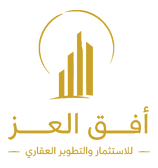
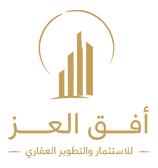
New MAALEM logotype, and the brand gold moves to #c49f58 everywhere

diff --git a/index.html b/index.html
@@ -91,9 +91,9 @@
   --ink-2:#161618;
   --ink-3:#111113;
   --ink-4:#0C0C0E;
-  --gold:#C9A227;
-  --gold-lo:rgba(201,162,39,.14);
-  --gold-md:rgba(201,162,39,.34);
+  --gold:#c49f58;
+  --gold-lo:rgba(196,159,88,.14);
+  --gold-md:rgba(196,159,88,.34);
   --white:#fff;
   --w-90:rgba(255,255,255,.90);
   --w-64:rgba(255,255,255,.64);
@@ -595,7 +595,7 @@ ul{list-style:none}
 }
 /* Les logos clients arrivent en marine, brun, doré et blanc. Les poser tels
    quels sur l'anthracite ferait disparaître les foncés et six palettes au lieu
-   d'une. Ils sont donc tous ramenés au doré de la marque — #C9A227 — CUIT DANS
+   d'une. Ils sont donc tous ramenés au doré de la marque — #c49f58 — CUIT DANS
    LES FICHIERS, pas posé par un filtre : aucune chaîne de filtres CSS n'atteint
    un hexadécimal précis, elles l'approchent. L'alpha d'origine est conservé,
    c'est lui qui porte l'anticrénelage.
@@ -645,7 +645,7 @@ ul{list-style:none}
 .plane__veil{
   position:absolute;inset:0;
   background:
-    radial-gradient(58% 44% at 34% 30%,rgba(201,162,39,.09),transparent 62%),
+    radial-gradient(58% 44% at 34% 30%,rgba(196,159,88,.09),transparent 62%),
     radial-gradient(110% 78% at 50% 48%,transparent 34%,rgba(12,12,14,.86) 100%);
 }
 /* grain fin : casse l'aplat des surfaces vectorielles */
@@ -669,7 +669,7 @@ ul{list-style:none}
   position:absolute;inset:0;z-index:4;pointer-events:none;opacity:0;
   transition:opacity 1.1s var(--ease);
   background:
-    radial-gradient(60% 45% at 32% 28%,rgba(201,162,39,.10),transparent 62%),
+    radial-gradient(60% 45% at 32% 28%,rgba(196,159,88,.10),transparent 62%),
     radial-gradient(120% 82% at 50% 50%,transparent 40%,rgba(12,12,14,.72) 100%);
 }
 #gl.is-ready ~ .gl__tint{opacity:1}
@@ -705,11 +705,11 @@ ul{list-style:none}
 .city{
   position:relative;display:grid;place-items:center;cursor:pointer;
   width:var(--d,64px);height:var(--d,64px);border-radius:50%;
-  background:rgba(201,162,39,.22);border:1px solid rgba(201,162,39,.55);
+  background:rgba(196,159,88,.22);border:1px solid rgba(196,159,88,.55);
   backdrop-filter:blur(6px);-webkit-backdrop-filter:blur(6px);
   transition:transform .45s var(--ease),background .45s var(--ease);
 }
-.city:hover{transform:scale(1.09);background:rgba(201,162,39,.34)}
+.city:hover{transform:scale(1.09);background:rgba(196,159,88,.34)}
 .city b{font-size:.68rem;font-weight:700;color:#fff;font-variant-numeric:tabular-nums;letter-spacing:.06em}
 .city span{position:absolute;top:calc(100% + 7px);white-space:nowrap;
   font-size:.55rem;font-weight:700;letter-spacing:.16em;text-transform:uppercase;color:var(--w-64)}
@@ -732,7 +732,7 @@ ul{list-style:none}
 }
 .pin__hit::before{
   content:'';position:absolute;left:50%;top:50%;width:46px;height:32px;
-  margin:-16px 0 0 -23px;border:1px dashed rgba(201,162,39,.42);border-radius:2px;
+  margin:-16px 0 0 -23px;border:1px dashed rgba(196,159,88,.42);border-radius:2px;
   transform:rotate(-9deg) scale(.6);opacity:0;
   transition:transform .8s var(--ease),opacity .8s var(--ease);
 }
@@ -1019,7 +1019,7 @@ body.is-map-open .gl__back{opacity:0;pointer-events:none}
   transition:border-color .5s var(--ease),transform .5s var(--ease);
 }
 .plan:hover{border-color:var(--w-24);transform:translateY(-3px)}
-.plan--hi{border-color:var(--gold-md);background:linear-gradient(180deg,rgba(201,162,39,.07),transparent 60%),var(--ink-2)}
+.plan--hi{border-color:var(--gold-md);background:linear-gradient(180deg,rgba(196,159,88,.07),transparent 60%),var(--ink-2)}
 .plan__tag{position:absolute;top:-1px;right:20px;padding:5px 11px;border-radius:0 0 8px 8px;background:var(--gold);color:var(--ink);font-size:.52rem;font-weight:700;letter-spacing:.14em;text-transform:uppercase}
 .plan__n{font-size:.6rem;font-weight:700;letter-spacing:.18em;text-transform:uppercase;color:var(--gold)}
 .plan__p{display:flex;align-items:baseline;gap:6px;margin-top:14px}
@@ -1039,7 +1039,7 @@ body.is-map-open .gl__back{opacity:0;pointer-events:none}
 .wa-card{
   padding:26px 22px;border-radius:18px;
   border:1px solid var(--gold-md);
-  background:linear-gradient(180deg,rgba(201,162,39,.09),transparent 70%),var(--ink-2);
+  background:linear-gradient(180deg,rgba(196,159,88,.09),transparent 70%),var(--ink-2);
 }
 .wa-card h3{font-size:clamp(1.3rem,5vw,1.8rem);font-weight:400;letter-spacing:-.025em;margin-top:12px}
 .wa-card p{margin-top:10px;font-size:.9rem;line-height:1.55;color:var(--w-64)}
@@ -1167,26 +1167,21 @@ html{scroll-behavior:smooth}
     <path d="m70.27,124.82c-2.33-2.91-4.55-5.7-7.01-8.78,2.21-2.93,4.41-5.85,6.85-9.08,2.48,3.17,4.72,6.05,7.13,9.13-2.29,2.87-4.56,5.71-6.97,8.72Z"/>
   </symbol>
 
-  <!-- Logotype seul : معالم au-dessus, MAALEM en dessous.
-       Les tracés sont ramenés à l'origine : un viewBox décalé sur le <symbol>
-       déplace le viewport du <use> et le contenu sort du cadre. -->
-  <symbol id="wm" viewBox="0 0 211 64"><g transform="translate(-172.4,-56.8)">
-    <path d="m195.8,81.58c.58.58,1.42.98,2.35.98v4.83c-2.26,0-4.3-.89-5.81-2.39-.13-.13-.31-.31-.44-.49-1.82,1.82-4.25,2.88-7,2.88-1.33,0-2.61-.22-3.81-.75-.71-.27-1.37-.66-2.04-1.11-.8.66-1.73,1.2-2.79,1.51v8.82h-4.87v-13.3h2.44c.93,0,1.77-.4,2.35-.98.62-.58.98-1.37.98-2.26v-8.46l7.27-3.32h.49c2.75,0,5.23,1.11,7,2.92,1.82,1.82,2.92,4.3,2.92,7v1.77c0,.89.35,1.73.97,2.35Zm-10.41-9.13l-3.37,1.51v7.71c.31.18.62.35.93.49.58.27,1.24.4,1.95.4,1.37,0,2.66-.58,3.59-1.51.89-.89,1.46-2.17,1.46-3.59s-.58-2.66-1.46-3.55c-.84-.84-1.91-1.37-3.1-1.46Z"/>
-    <path d="m198.11,87.38v-4.83h4.7v4.83h-4.7Z"/><path d="m202.76,87.38v-4.83h4.7v4.83h-4.7Z"/>
-    <path d="m207.41,87.38v-4.83h4.7v4.83h-4.7Z"/><path d="m212.07,87.38v-4.83h4.7v4.83h-4.7Z"/>
-    <path d="m216.72,87.38v-4.83h4.7v4.83h-4.7Z"/><path d="m221.37,87.38v-4.83h4.7v4.83h-4.7Z"/>
-    <path d="m272.57,87.38h-48.84v-4.83h44.01v-23.31h4.83v28.14Z"/>
-    <path d="m287.14,81.16l3.41,1.6h1.74v4.83h-2.8l-7.22-3.32v-25.02h4.87v21.91Z"/>
-    <path d="m292.08,87.58v-4.83h41.72v4.83h-41.72Z"/>
-    <path d="m332.26,82.75h8.95l-4.87-8.46,1.15-2.7,15.16-4.08,4.43,3.86.22.75c.13.49.22,1.02.31,1.55.04.58.09,1.11.09,1.64,0,2.79-.93,5.36-2.48,7.45h6.25v4.83h-29.21v-4.83Zm18.39-2.22c1.37-1.33,2.22-3.19,2.22-5.23,0-.4-.04-.71-.09-.97,0-.09,0-.18-.04-.27l-1.33-1.2-8.91,2.39,4.25,7.36c1.51-.27,2.88-1.02,3.9-2.08Z"/>
-    <path d="m364.79,81.78c.58-.58.93-1.37.98-2.26v-8.46l7.22-3.32h.49c2.75,0,5.23,1.11,7.05,2.92,1.77,1.82,2.88,4.3,2.88,7s-1.11,5.23-2.88,7.05c-1.82,1.77-4.3,2.88-7.05,2.88-1.29,0-2.57-.22-3.77-.75-.75-.27-1.42-.66-2.04-1.11-1.42,1.15-3.28,1.86-5.23,1.86h-1.02v-4.83h1.02c.89,0,1.73-.4,2.35-.98Zm9.17-9.13l-3.37,1.51v7.71c.31.18.62.35.93.49.62.27,1.29.4,1.95.4,1.42,0,2.66-.58,3.59-1.51.93-.89,1.46-2.17,1.46-3.59s-.53-2.66-1.46-3.55c-.8-.84-1.91-1.37-3.1-1.46Z"/>
-    <path d="m173.79,104.54h2.2l6.07,11.73,6-11.73h2.23v15.91h-1.7l-.02-13.43-6,11.73h-1.04l-6.04-11.73v13.43h-1.68v-15.91Z"/>
-    <path d="m221.97,104.54h1.86l7.11,15.91h-1.96l-6.14-14.04-6.09,14.04h-1.91l7.11-15.91Zm-3.98,10.2h9.66v1.57h-9.66v-1.57Z"/>
-    <path d="m260.33,104.54h1.86l7.11,15.91h-1.96l-6.14-14.04-6.09,14.04h-1.91l7.11-15.91Zm-3.98,10.2h9.66v1.57h-9.66v-1.57Z"/>
-    <path d="m293.87,104.54h1.82v14.34h6.98v1.57h-8.79v-15.91Z"/>
-    <path d="m327.66,104.54h10.79v1.59h-8.98v5.45h8.02v1.57h-8.02v5.73h9.27v1.57h-11.09v-15.91Z"/>
-    <path d="m364.5,104.54h2.2l6.07,11.73,6-11.73h2.23v15.91h-1.7l-.02-13.43-6,11.73h-1.04l-6.04-11.73v13.43h-1.68v-15.91Z"/>
-  </g></symbol>
+  <!-- Logotype MAALEM : معالم au-dessus, MAALEM en dessous. Fourni comme un
+       lockup vertical ; les tracés partent de l'origine, donc aucun décalage
+       de viewBox à compenser, contrairement à la version précédente.
+       Les classes de couleur du fichier source sont retirées : la teinte vient
+       de fill:currentColor, lui-même piloté par --gold. -->
+  <symbol id="wm" viewBox="0 0 242.13 83.03">
+    <path d="m101.57,0v48.04c3.83,0,7.43,0,11.04,0,28.26.02,56.51.05,84.77.05.9,0,2.06,0,2.65-.52,2.03-1.79,3.85-3.81,6.18-6.18h-10.23c3.6-3.63,6.83-6.94,10.13-10.17.44-.43,1.25-.65,1.89-.66,5.02-.05,10.05-.05,15.07.01.61,0,1.51.28,1.79.72,2.02,3.24,3.91,6.55,6.09,10.25h-20.14c1.67,1.87,3.09,3.33,4.34,4.91,1.01,1.28,2.14,1.79,3.8,1.76,6.91-.09,13.81-.04,20.72-.05.73,0,1.45-.09,2.48-.16-4.6-8-8.98-15.69-13.48-23.31-.35-.58-1.56-.91-2.37-.92-6.28-.07-12.56-.02-18.84-.02-2.31,0-4.2.77-5.87,2.47-4.61,4.72-9.3,9.35-14.05,13.92-.7.67-1.86,1.2-2.82,1.21-6.51.1-13.03.07-19.54.03-.67,0-1.56-.04-1.97-.45-3.1-3.07-6.1-6.23-9.13-9.37l.21-.91c8.75-.39,17.54.05,26.32-.28v-6.64c-7.47,0-14.75-.48-22.03-.12-6.71.33-10.06,3.7-15.29,7.35,3.92,3.35,7.5,6.41,11.08,9.46-.23.24-.46.49-.69.73h-45.69c0-1.01,0-1.78,0-2.55,0-10.05,0-22.01-.02-32.06"/>
+    <path d="m79.94,7.2c.1,9.65.05,21.27.05,30.92,0,.9-.07,1.8-.11,2.64h-24.91v-16.87c-5.4,0-10.57-.13-15.72.08-1.44.06-3.07.85-4.23,1.79C23.8,34.86,12.68,44.05,1.54,53.23c-.3.25-.52.6-1.08,1.24,2.64,0,4.84-.1,7.02.03,2,.12,3.54-.48,5.1-1.78,8.45-7.01,16.99-13.91,25.52-20.83.65-.53,1.42-1.22,2.16-1.26,2.63-.15,5.28-.06,8-.06v10.67c-6.69-1.84-11.32,1.21-15.3,6.24h53.45V0"/>
+    <path d="m174.68,75.97h23.43v-2.56h-23.35v-3.89h23.37v-2.6h-26.39v15.87h26.51c-.05-.94-.09-1.69-.15-2.68h-23.41v-4.14Z"/>
+    <path d="m241.76,66.19c-1.46.82-2.64,1.16-3.36,1.94-3.42,3.66-6.71,7.44-10.2,11.34-3.52-3.94-6.82-7.72-10.23-11.38-.71-.76-1.86-1.1-3.21-1.85v16.55h2.82v-10.84c3.15,3.51,5.98,6.54,8.66,9.7,1.46,1.72,2.52,1.62,3.93-.03,2.68-3.13,5.5-6.13,8.7-9.68v10.86h2.89v-16.61Z"/>
+    <path d="m2.87,82.85v-10.8c3.05,3.41,5.76,6.45,8.49,9.47,1.84,2.03,2.24,2.01,4.04.01,2.75-3.04,5.5-6.08,8.25-9.12.17.07.35.14.52.2v10.21h2.64v-16.8c-1.5,1.01-2.59,1.49-3.33,2.29-3.39,3.63-6.68,7.35-10.13,11.18-3.49-3.97-6.69-7.73-10.04-11.34-.73-.79-1.99-1.08-3.31-1.76v16.47h2.87Z"/>
+    <path d="m114.03,82.71c-4.05-5.16-7.93-10.17-11.87-15.12-1.11-1.39-2.92-1.21-4.16.32-2.17,2.68-4.3,5.39-6.44,8.11-1.72,2.19-3.43,4.4-5.21,6.68,2.37.71,3.77,0,5.06-1.75,2.77-3.75,5.76-7.33,8.78-11.13,2.99,3.81,5.85,7.33,8.57,10.96,1.3,1.74,2.73,2.74,5.27,1.93Z"/>
+    <path d="m70.4,82.75c-.51-.71-.93-1.34-1.4-1.92-3.38-4.22-6.77-8.43-10.16-12.64-1.68-2.09-3.17-2.09-4.87.05-3.51,4.41-7.01,8.84-10.5,13.27-.3.38-.48.85-.71,1.27,2.42.74,3.81-.31,5.11-2.04,2.75-3.67,5.65-7.22,8.61-10.97,3.14,3.96,6.17,7.55,8.94,11.34,1.33,1.82,2.79,2.21,4.98,1.64Z"/>
+    <path d="m131.38,82.78h23.79c-.05-.95-.09-1.7-.15-2.72h-20.93v-13.27c-1.05.06-1.86.1-2.71.14v15.85Z"/>
+  </symbol>
 </svg>
 
 <!-- ====================== NAV ====================== -->
@@ -1194,7 +1189,7 @@ html{scroll-behavior:smooth}
   <div class="wrap nav__in">
     <a class="brand" href="#accueil" aria-label="MAALEM — accueil">
       <span class="brand__mk" aria-hidden="true"><svg viewBox="0 0 140.49 125.29"><use href="#mk"/></svg></span>
-      <span class="brand__wm" aria-hidden="true"><svg viewBox="0 0 211 64"><use href="#wm"/></svg></span>
+      <span class="brand__wm" aria-hidden="true"><svg viewBox="0 0 242.13 83.03"><use href="#wm"/></svg></span>
       <span class="brand__sr">MAALEM معالم</span>
     </a>
     <nav class="nav__links" aria-label="Navigation principale">
@@ -1373,8 +1368,8 @@ html{scroll-behavior:smooth}
       <svg id="demoSvg" viewBox="0 0 1000 700" preserveAspectRatio="xMidYMid slice" aria-hidden="true">
         <defs>
           <linearGradient id="wall" x1="0" y1="0" x2="0" y2="1">
-            <stop offset="0%" stop-color="#C9A227" stop-opacity=".30"/>
-            <stop offset="100%" stop-color="#C9A227" stop-opacity=".06"/>
+            <stop offset="0%" stop-color="#c49f58" stop-opacity=".30"/>
+            <stop offset="100%" stop-color="#c49f58" stop-opacity=".06"/>
           </linearGradient>
         </defs>
         <g id="gAccess" opacity="0"></g>
@@ -1545,7 +1540,7 @@ html{scroll-behavior:smooth}
   <div class="wrap foot__in">
     <a class="brand" href="#accueil">
       <span class="brand__mk" aria-hidden="true"><svg viewBox="0 0 140.49 125.29"><use href="#mk"/></svg></span>
-      <span class="brand__wm" aria-hidden="true"><svg viewBox="0 0 211 64"><use href="#wm"/></svg></span>
+      <span class="brand__wm" aria-hidden="true"><svg viewBox="0 0 242.13 83.03"><use href="#wm"/></svg></span>
       <span class="brand__sr">MAALEM معالم</span>
     </a>
     <p class="foot__tag" data-i18n="marque.tagline">Votre signature cinématographique de l'immobilier</p>
@@ -1952,7 +1947,7 @@ function buildGeoTerrain(host, g){
      deux repères dorés au même endroit. */
   if(host.getAttribute('data-terrain') === 'reel'){
     svg.appendChild(el('rect',{x:-58,y:-40,width:116,height:80,
-      fill:'rgba(201,162,39,.08)',stroke:'rgba(201,162,39,.50)','stroke-width':2,'stroke-dasharray':'10 8'}));
+      fill:'rgba(196,159,88,.08)',stroke:'rgba(196,159,88,.50)','stroke-width':2,'stroke-dasharray':'10 8'}));
   }
 
   host.appendChild(svg);
@@ -2039,7 +2034,7 @@ function buildTerrain(host){
     var px = 200+r()*500, py = 200+r()*350;
     var pw = 200+r()*180, ph = 130+r()*120;
     svg.appendChild(el('rect',{x:px.toFixed(0),y:py.toFixed(0),width:pw.toFixed(0),height:ph.toFixed(0),
-      fill:'rgba(201,162,39,.07)',stroke:'rgba(201,162,39,.45)','stroke-width':1.5,'stroke-dasharray':'8 7'}));
+      fill:'rgba(196,159,88,.07)',stroke:'rgba(196,159,88,.45)','stroke-width':1.5,'stroke-dasharray':'8 7'}));
   }
 
   host.appendChild(svg);
@@ -2804,17 +2799,17 @@ var slides = $$('.demo__slide', $('#demoPanel'));
   var g = $('#gPlot');
   g.appendChild(el('polygon',{
     points: PLOT.map(function(p){ return p.join(','); }).join(' '),
-    fill:'rgba(201,162,39,.10)', stroke:'#C9A227','stroke-width':2
+    fill:'rgba(196,159,88,.10)', stroke:'#c49f58','stroke-width':2
   }));
   PLOT.forEach(function(p){
-    g.appendChild(el('circle',{cx:p[0],cy:p[1],r:4,fill:'#C9A227'}));
+    g.appendChild(el('circle',{cx:p[0],cy:p[1],r:4,fill:'#c49f58'}));
   });
   /* réticule */
   var cx = 0, cy = 0;
   PLOT.forEach(function(p){ cx += p[0]/4; cy += p[1]/4; });
-  g.appendChild(el('circle',{cx:cx,cy:cy,r:26,fill:'none',stroke:'rgba(201,162,39,.5)','stroke-width':1,'stroke-dasharray':'4 5'}));
+  g.appendChild(el('circle',{cx:cx,cy:cy,r:26,fill:'none',stroke:'rgba(196,159,88,.5)','stroke-width':1,'stroke-dasharray':'4 5'}));
   g.appendChild(el('path',{d:'M '+(cx-38)+' '+cy+' H '+(cx-12)+' M '+(cx+12)+' '+cy+' H '+(cx+38)+' M '+cx+' '+(cy-38)+' V '+(cy-12)+' M '+cx+' '+(cy+12)+' V '+(cy+38),
-    stroke:'rgba(201,162,39,.7)','stroke-width':1.2}));
+    stroke:'rgba(196,159,88,.7)','stroke-width':1.2}));
 })();
 
 /* -- accès -- */
@@ -2843,8 +2838,8 @@ var slides = $$('.demo__slide', $('#demoPanel'));
   ];
   dims.forEach(function(d){
     var mx = (d.a[0]+d.b[0])/2, my = (d.a[1]+d.b[1])/2;
-    g.appendChild(el('line',{x1:d.a[0],y1:d.a[1],x2:d.b[0],y2:d.b[1],stroke:'#C9A227','stroke-width':1,'stroke-dasharray':'5 4'}));
-    var r = el('rect',{x:mx-33,y:my-11,width:66,height:22,rx:5,fill:'rgba(12,12,14,.78)',stroke:'rgba(201,162,39,.4)','stroke-width':1});
+    g.appendChild(el('line',{x1:d.a[0],y1:d.a[1],x2:d.b[0],y2:d.b[1],stroke:'#c49f58','stroke-width':1,'stroke-dasharray':'5 4'}));
+    var r = el('rect',{x:mx-33,y:my-11,width:66,height:22,rx:5,fill:'rgba(12,12,14,.78)',stroke:'rgba(196,159,88,.4)','stroke-width':1});
     var tx = el('text',{x:mx,y:my+4,'text-anchor':'middle',fill:'#fff','font-size':11,'font-family':'inherit','font-weight':700,'letter-spacing':'.5'});
     tx.textContent = d.t;
     g.appendChild(r); g.appendChild(tx);
@@ -2872,14 +2867,14 @@ var gBuild = $('#gBuild');
 var faces = [], topPoly, levels = [];
 (function(){
   for(var i=0;i<PLOT.length;i++){
-    var f = el('polygon',{fill:'url(#wall)', stroke:'rgba(201,162,39,.55)','stroke-width':1});
+    var f = el('polygon',{fill:'url(#wall)', stroke:'rgba(196,159,88,.55)','stroke-width':1});
     faces.push(f); gBuild.appendChild(f);
   }
   for(var l=0;l<2;l++){
-    var lv = el('polygon',{fill:'none', stroke:'rgba(201,162,39,.28)','stroke-width':1});
+    var lv = el('polygon',{fill:'none', stroke:'rgba(196,159,88,.28)','stroke-width':1});
     levels.push(lv); gBuild.appendChild(lv);
   }
-  topPoly = el('polygon',{fill:'rgba(201,162,39,.24)', stroke:'#C9A227','stroke-width':2});
+  topPoly = el('polygon',{fill:'rgba(196,159,88,.24)', stroke:'#c49f58','stroke-width':2});
   gBuild.appendChild(topPoly);
 })();
 function drawBuild(h){
